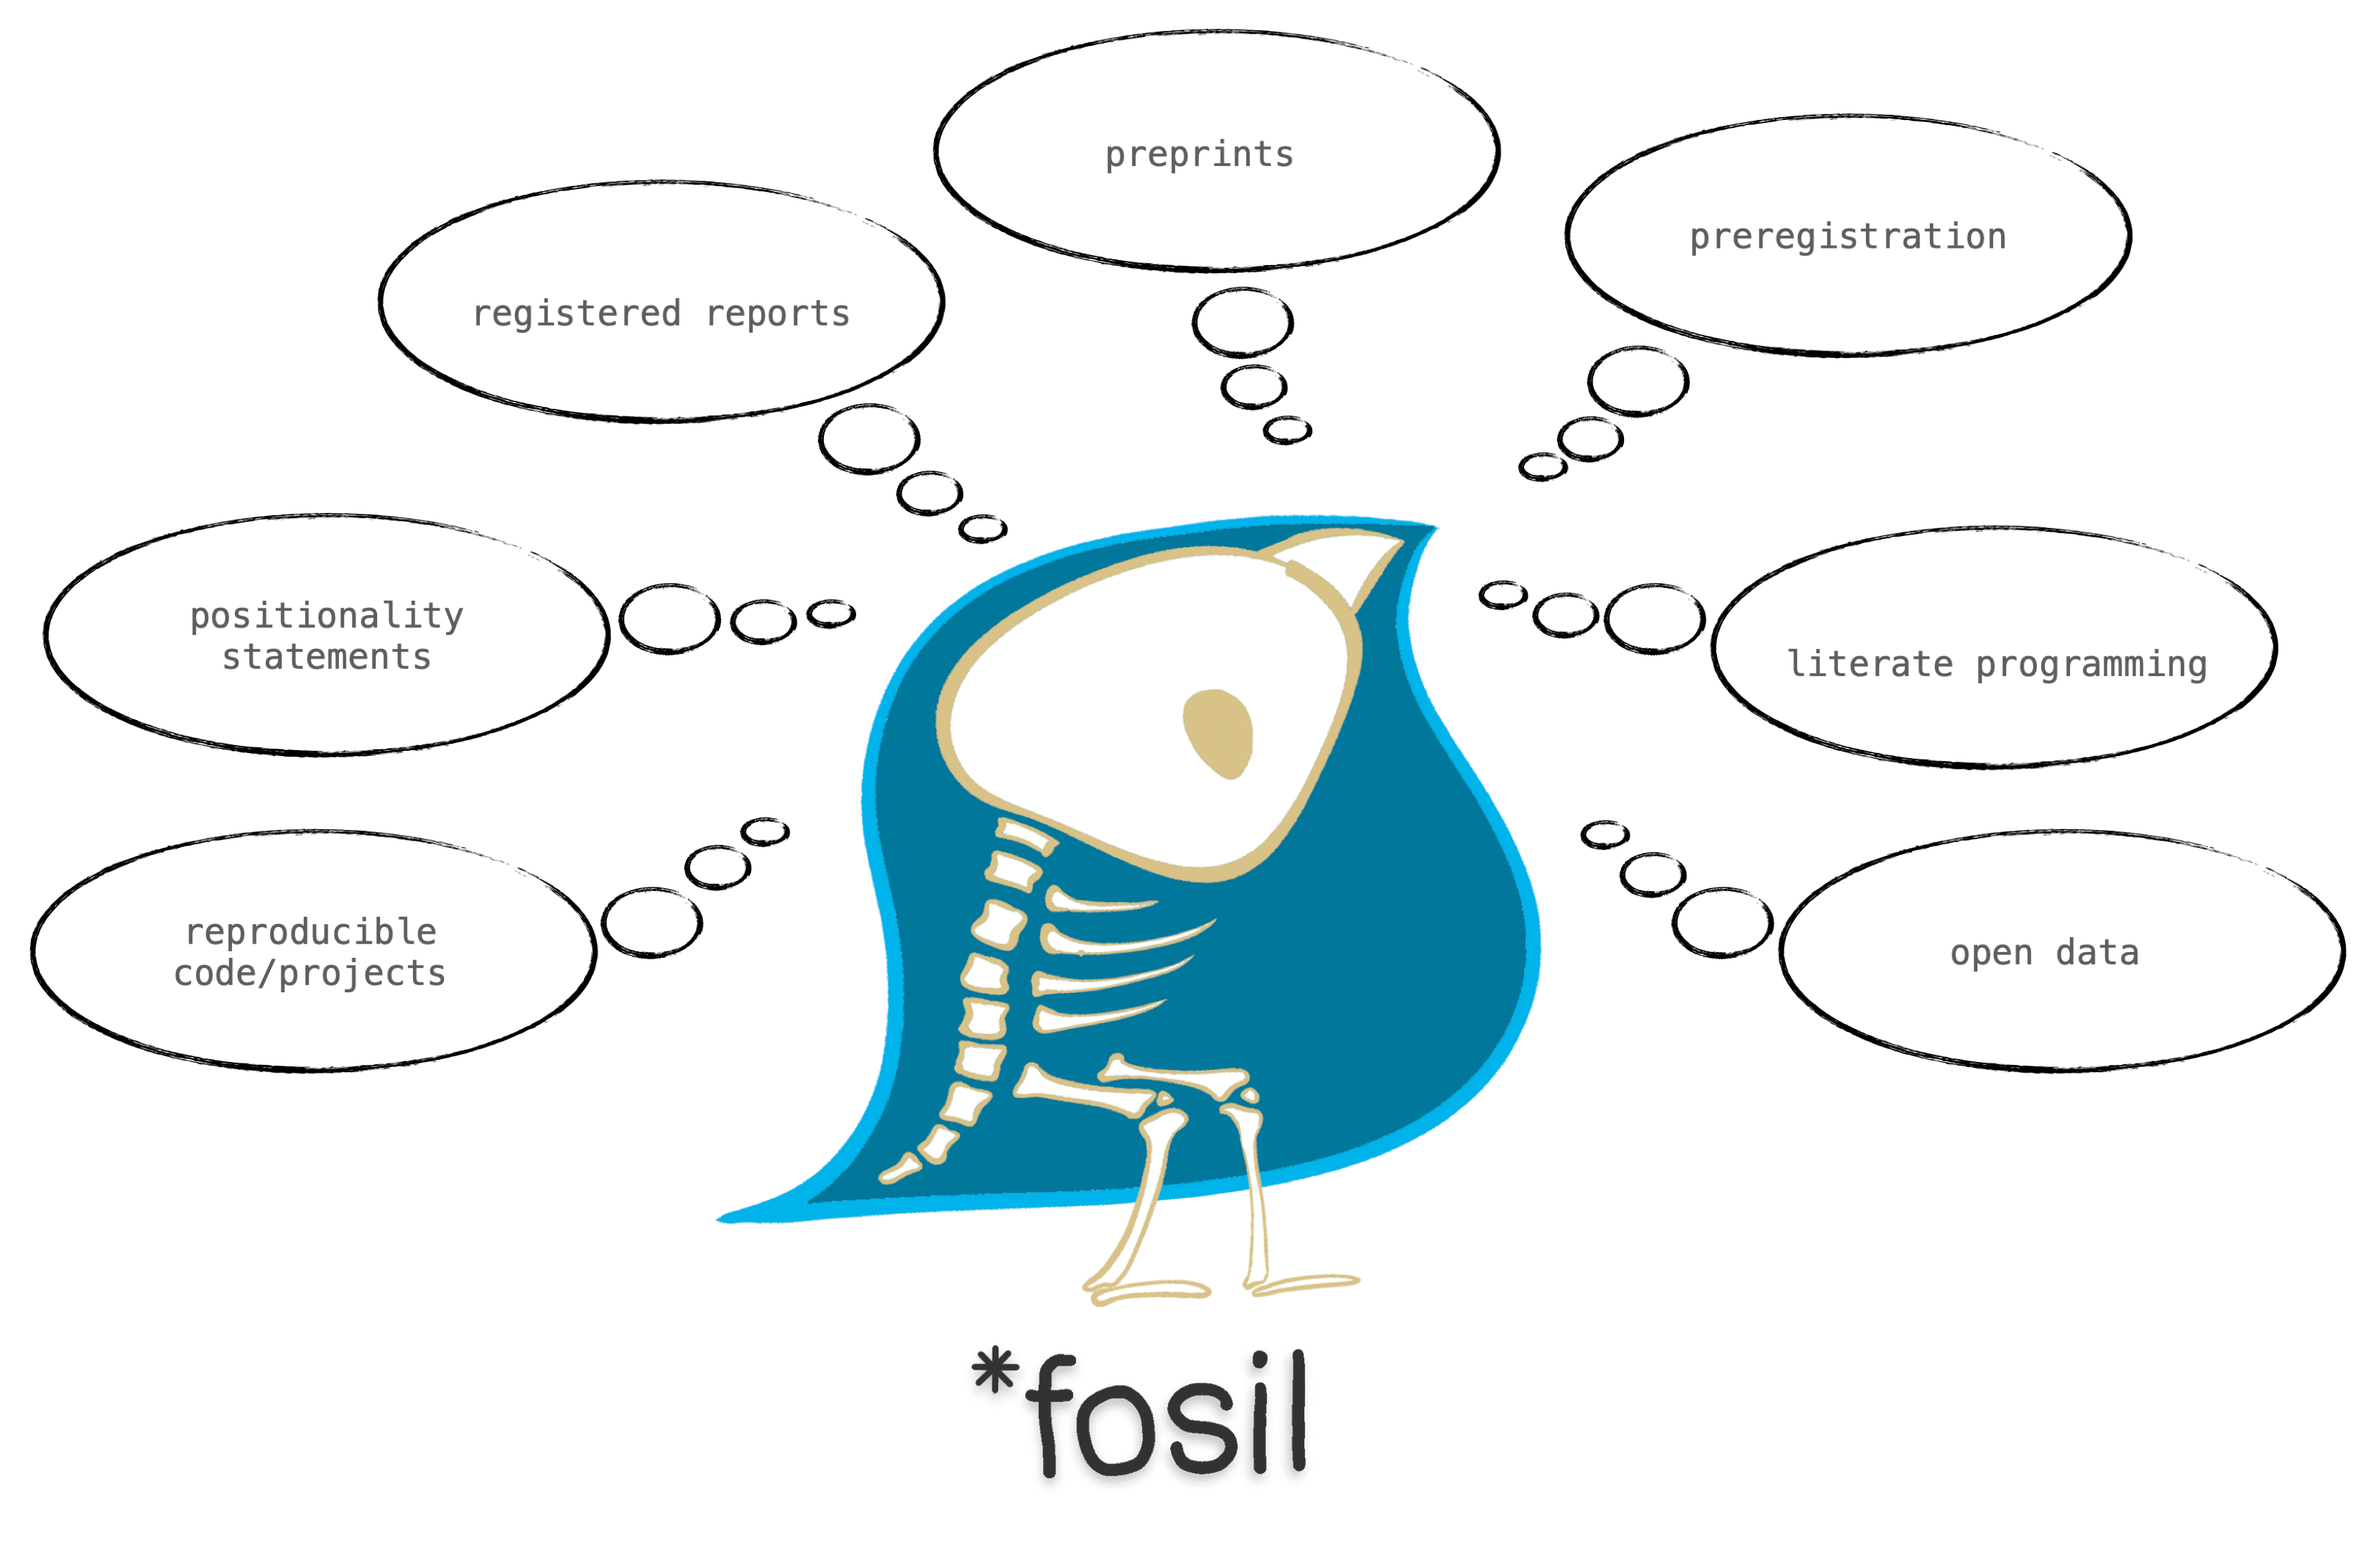
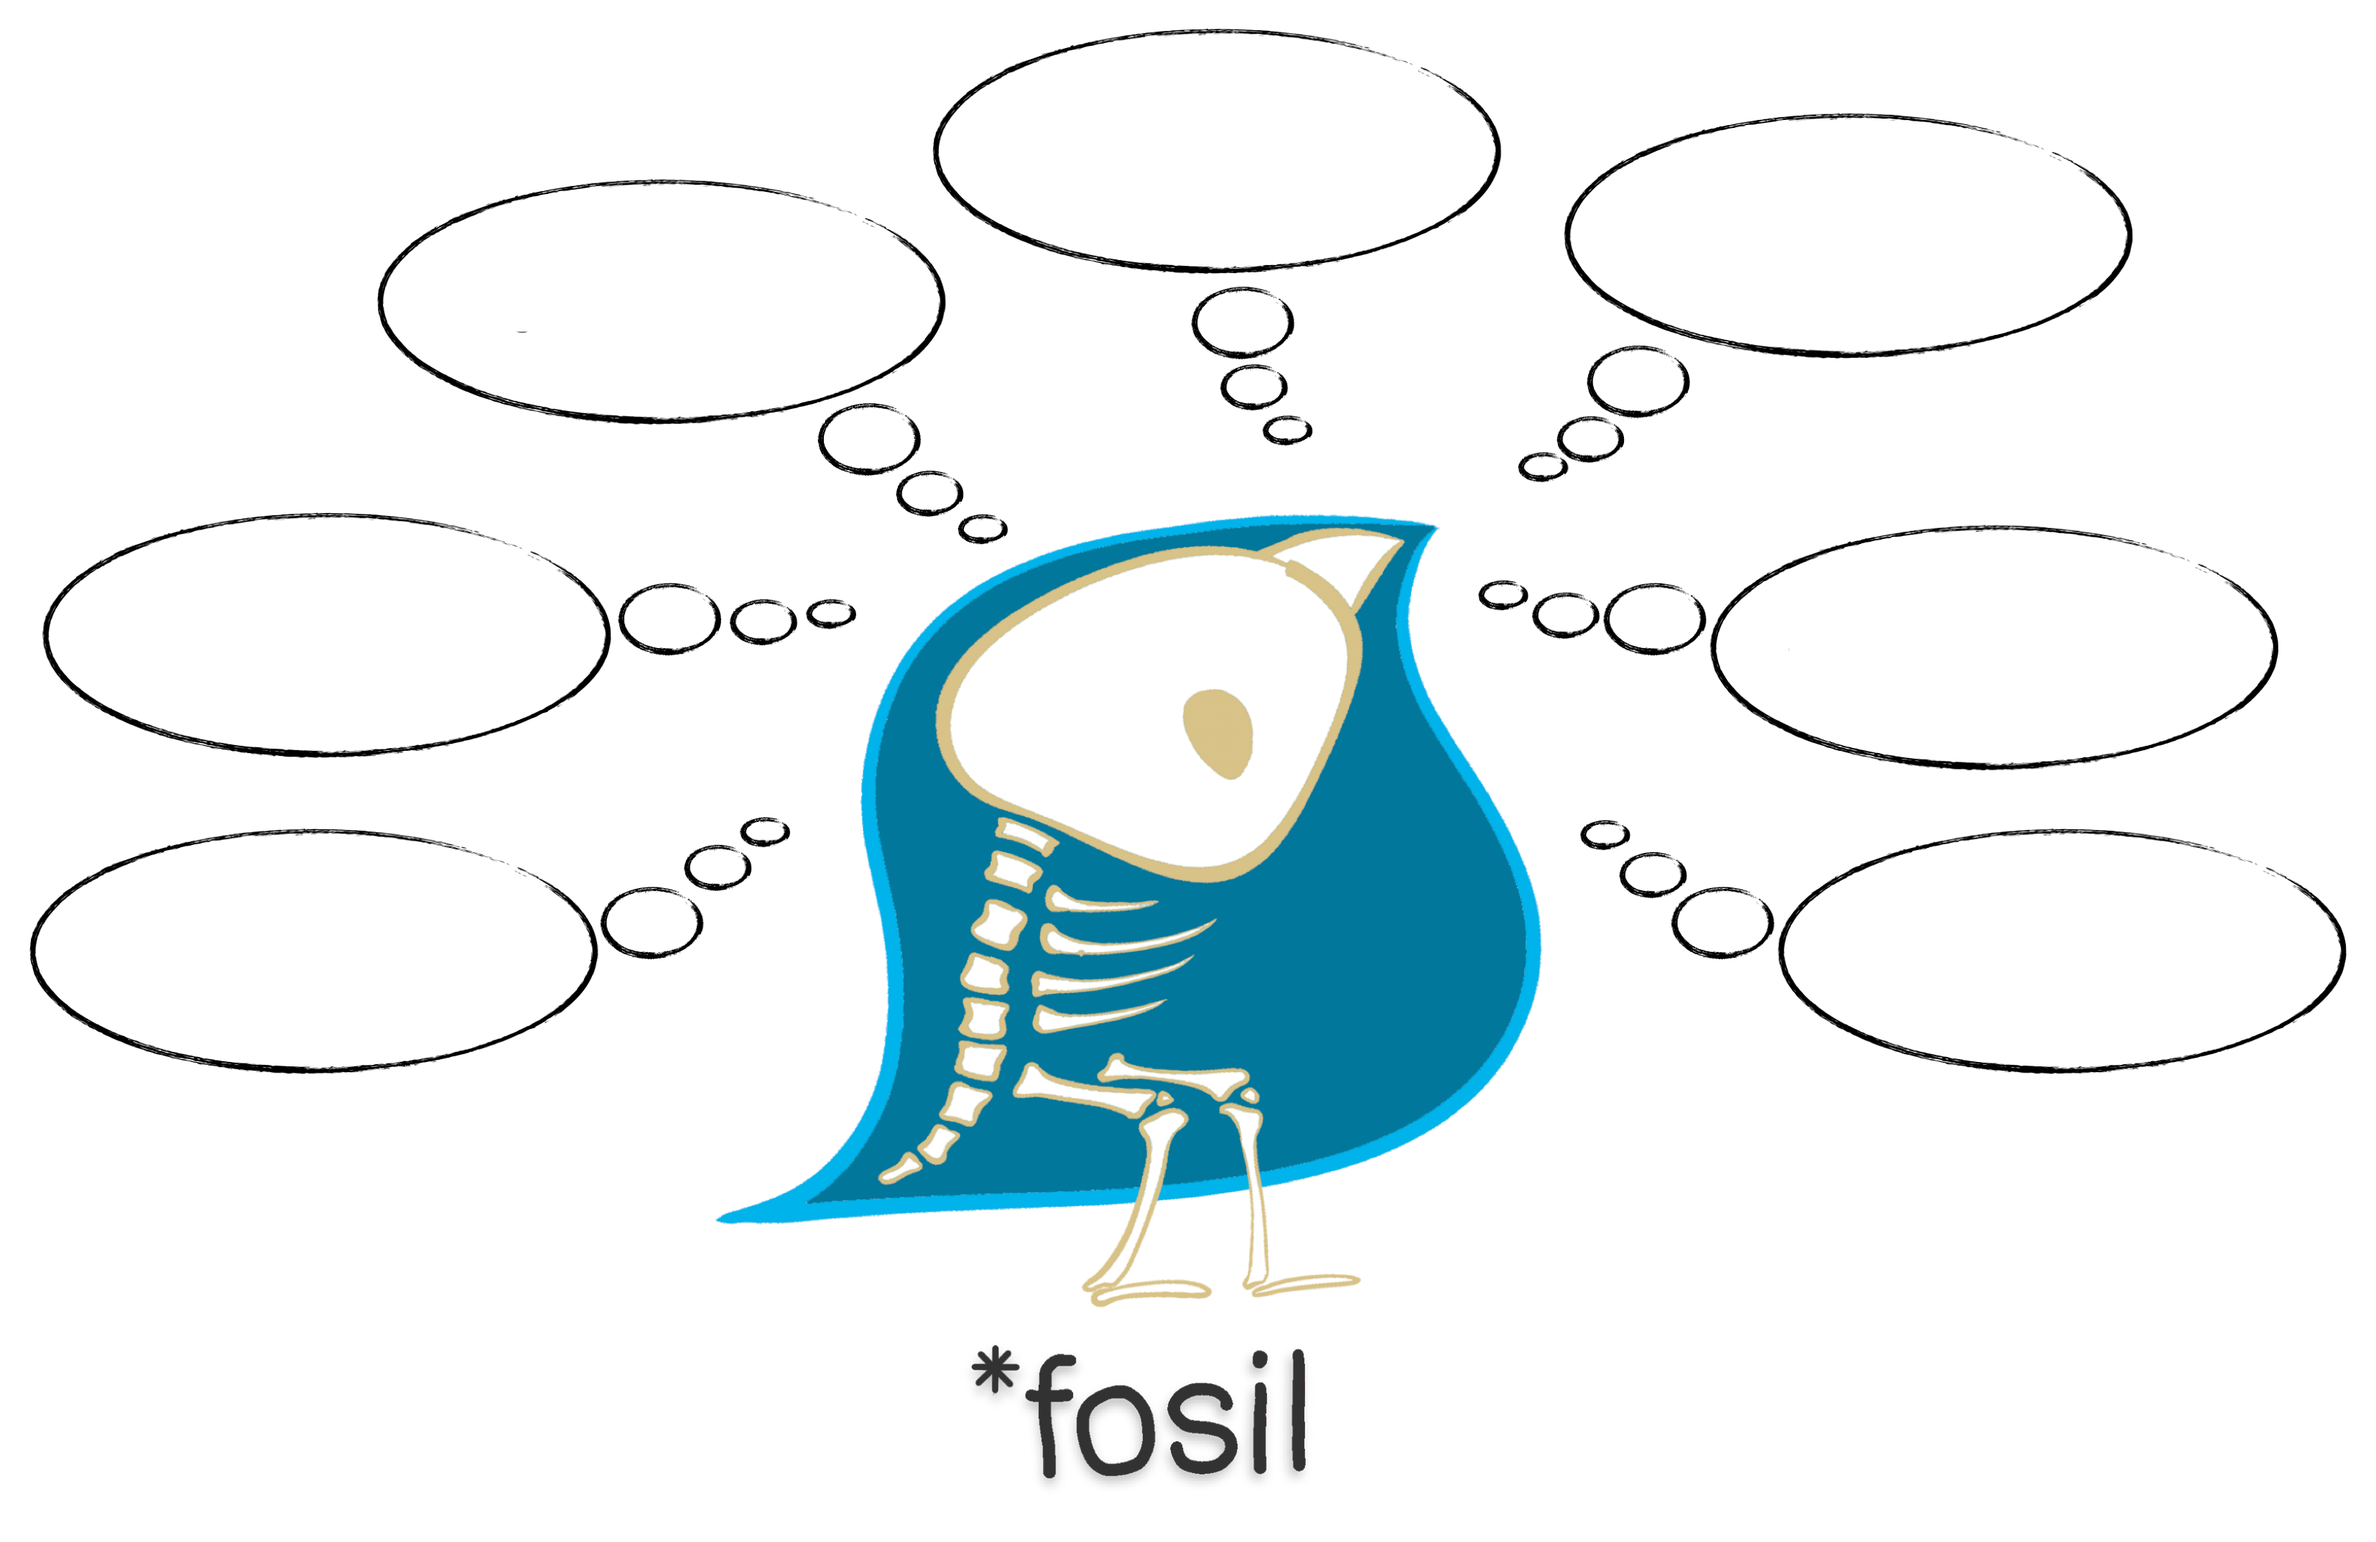
reactive nav img

diff --git a/docs/index.html b/docs/index.html
@@ -124,41 +124,41 @@ https://stackoverflow.com/questions/7844399/responsive-image-map
 
 </div>
 </a><p><a title="What is open science?" href="posts/what-is-open-science/index.html"></a></p>
-<a href="posts/reproducible-code-projects/index.html">
-<div style="position: absolute; left: 2%; top: 55%; width: 22%; height: 13%; background-color: rgba(0, 0, 0, 0);">
-
+<a class="nav_wug" href="posts/reproducible-code-projects/index.html">
+<div id="nav_wug" style="position: absolute; left: 2%; top: 56%; width: 22%; height: 13%; background-color: rgba(0, 0, 0, 0);">
+reproducible<br>code/projects
 </div>
-</a><p><a href="posts/reproducible-code-projects/index.html"></a></p>
-<a href="posts/positionality-statements/index.html">
-<div style="position: absolute; left: 3%; top: 35%; width: 22%; height: 13%; background-color: rgba(0, 0, 0, 0);">
-
+</a><p><a class="nav_wug" href="posts/reproducible-code-projects/index.html"></a></p>
+<a class="nav_wug" href="posts/positionality-statements/index.html">
+<div id="nav_wug" style="position: absolute; left: 3%; top: 36%; width: 22%; height: 13%; background-color: rgba(0, 0, 0, 0);">
+positionality<br>statements
 </div>
-</a><p><a href="posts/positionality-statements/index.html"></a></p>
-<a href="posts/registered-reports/index.html">
-<div style="position: absolute; left: 17%; top: 13%; width: 22%; height: 13%; background-color: rgba(0, 0, 0, 0);">
-
+</a><p><a class="nav_wug" href="posts/positionality-statements/index.html"></a></p>
+<a class="nav_wug" href="posts/registered-reports/index.html">
+<div id="nav_wug" style="position: absolute; left: 17%; top: 15%; width: 22%; height: 13%; background-color: rgba(0, 0, 0, 0);">
+registered<br>reports
 </div>
-</a><p><a href="posts/registered-reports/index.html"></a></p>
-<a href="posts/preprints/index.html">
-<div style="position: absolute; left: 40%; top: 3%; width: 22%; height: 13%; background-color: rgba(0, 0, 0, 0);">
-
+</a><p><a class="nav_wug" href="posts/registered-reports/index.html"></a></p>
+<a class="nav_wug" href="posts/preprints/index.html">
+<div id="nav_wug" style="position: absolute; left: 40%; top: 3%; width: 22%; height: 13%; background-color: rgba(0, 0, 0, 0);">
+<br>preprints
 </div>
-</a><p><a href="posts/preprints/index.html"></a></p>
-<a href="posts/preregistration/index.html">
-<div style="position: absolute; left: 67%; top: 9%; width: 22%; height: 13%; background-color: rgba(0, 0, 0, 0);">
-
+</a><p><a class="nav_wug" href="posts/preprints/index.html"></a></p>
+<a class="nav_wug" href="posts/preregistration/index.html">
+<div id="nav_wug" style="position: absolute; left: 67%; top: 8%; width: 22%; height: 14%; background-color: rgba(0, 0, 0, 0);">
+<br>preregistration
 </div>
-</a><p><a href="posts/preregistration/index.html"></a></p>
-<a href="posts/literate-programming/index.html">
-<div style="position: absolute; left: 73%; top: 36%; width: 22%; height: 13%; background-color: rgba(0, 0, 0, 0);">
-
+</a><p><a class="nav_wug" href="posts/preregistration/index.html"></a></p>
+<a class="nav_wug" href="posts/literate-programming/index.html">
+<div id="nav_wug" style="position: absolute; left: 73%; top: 36%; width: 22%; height: 13%; background-color: rgba(0, 0, 0, 0);">
+literate<br>programming
 </div>
-</a><p><a href="posts/literate-programming/index.html"></a></p>
-<a href="posts/open-data/index.html">
-<div style="position: absolute; left: 76%; top: 55%; width: 22%; height: 13%; background-color: rgba(0, 0, 0, 0);">
-
+</a><p><a class="nav_wug" href="posts/literate-programming/index.html"></a></p>
+<a class="nav_wug" href="posts/open-data/index.html">
+<div id="nav_wug" style="position: absolute; left: 76%; top: 55%; width: 22%; height: 15%; background-color: rgba(0, 0, 0, 0);">
+<br>open data
 </div>
-</a><p><a href="posts/open-data/index.html"></a></p>
+</a><p><a class="nav_wug" href="posts/open-data/index.html"></a></p>
 </div>
 
 

diff --git a/docs/styles.css b/docs/styles.css
@@ -1,1 +1,19 @@
 /* css styles */
+@import url('https://fonts.googleapis.com/css?family=Inconsolata');
+
+.nav_wug {
+  font-family: 'Inconsolata', monospace;
+  text-align: center;
+  color: black;
+  font-size: 1.5vw;;
+  line-height: 1;
+}
+
+.nav_wug:hover {
+  font-size: 1.6vw;;
+}
+
+#nav_wug {
+  vertical-align: middle;
+  padding-top: 10px;
+}

diff --git a/styles.css b/styles.css
@@ -1,1 +1,19 @@
 /* css styles */
+@import url('https://fonts.googleapis.com/css?family=Inconsolata');
+
+.nav_wug {
+  font-family: 'Inconsolata', monospace;
+  text-align: center;
+  color: black;
+  font-size: 1.5vw;;
+  line-height: 1;
+}
+
+.nav_wug:hover {
+  font-size: 1.6vw;;
+}
+
+#nav_wug {
+  vertical-align: middle;
+  padding-top: 10px;
+}
